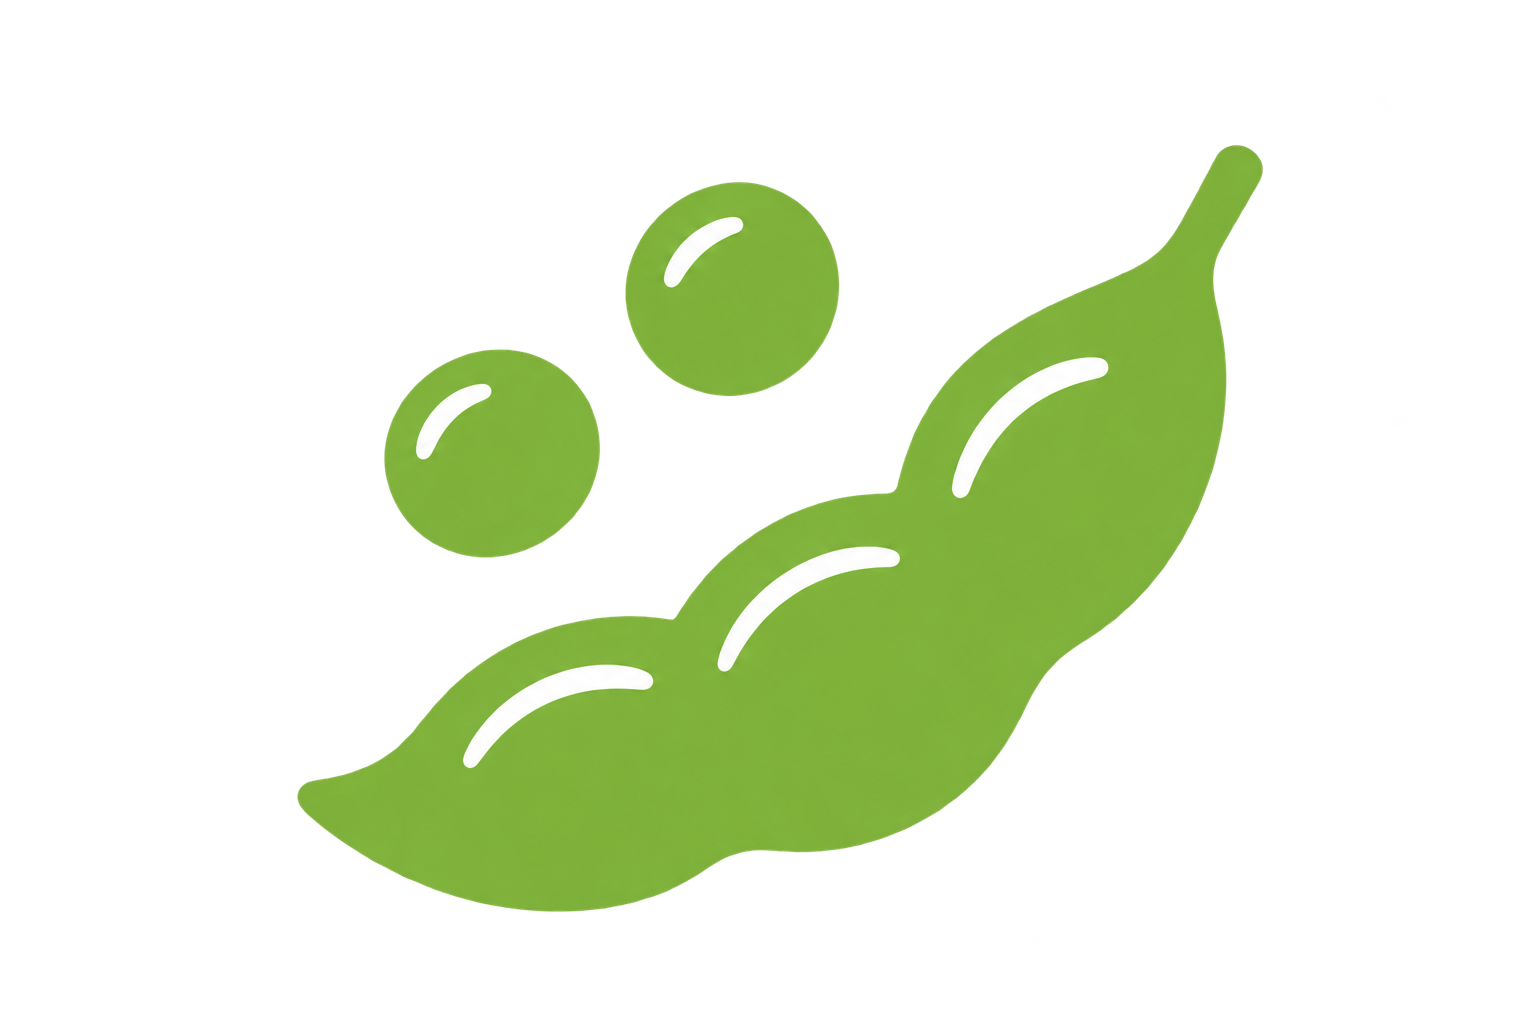
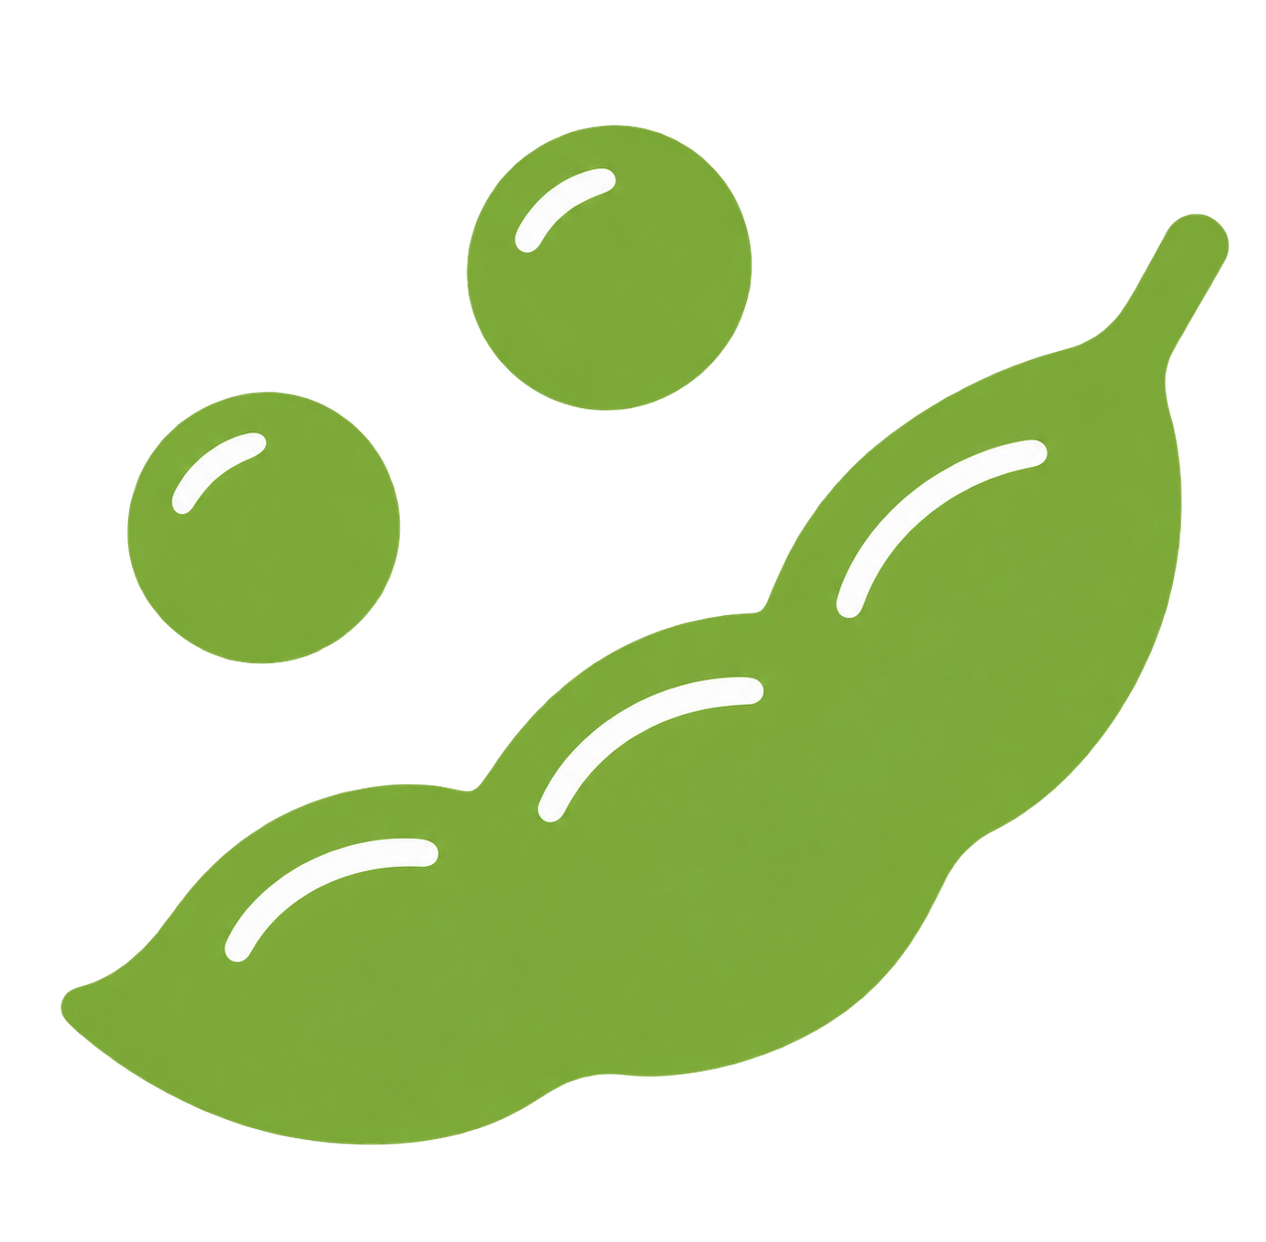
update: README.md

Changed region(s): [[0.0308, 0.125, 0.9858, 0.9375], [0.0924, 0.3125, 0.4005, 0.5625], [0.3697, 0.0938, 0.6161, 0.4062]]

diff --git a/README.md b/README.md
@@ -1,8 +1,76 @@
 # MealRoom
 
+<p align="center">
+  <img src="asset/icon-meal-room-transparent.png" alt="MealRoom アイコン" width="128">
+</p>
+
+<p align="center">
+  <strong>MealRoom</strong><br>
+  献立から買い物まで、ふたり・家族でひとつに。
+</p>
+
 家族・カップルで料理、献立、買い物リストを共有するスマートフォン向けMVPです。React製WebアプリをS3とCloudFrontで配信し、FlutterアプリはそのWebアプリをWebViewで表示します。
 
 現行の本番URLは `https://dqtgmho40xu09.cloudfront.net/index.html` です。
+
+## サービス概要
+
+MealRoomは、家族やカップルが同じRoomで毎日の食事を決め、必要な食材を買い物リストへつなげる共有アプリです。「今日何を作るか」「何を買うか」を別々のメモに分散させず、料理・献立・買い物をひとつの流れで扱います。
+
+### 解決すること
+
+- 料理の候補、レシピURL、メモを家族のRoomにまとめる
+- 朝・昼・夜の献立を週単位で見渡し、予定を共有する
+- 献立から必要な食材を重複なしで集計し、買い物リストを作る
+- 外出先ではスマートフォンから確認し、変更は同期ボタンで共有する
+
+### 体験コンセプト
+
+MealRoomの中心にあるのは「同じRoomを見て、一緒に決める」体験です。データの取得（GET）はリアルタイムに近い間隔で行い、編集中の変更（PUT）はユーザーが同期ボタンを押したタイミングで追加します。これにより、S3上のデータを読みながら入力途中の内容が勝手に消えることを避け、共有する瞬間をユーザー自身が選べます。
+
+## UIコンセプト
+
+UIは `#7CB342` を中心に、Untitled UIのような余白・タイポグラフィ・状態表示を重視した、静かで実用的なスマートフォン優先設計です。カードの輪郭線を極力使わず、背景色・余白・面のコントラストで情報のまとまりを表現します。
+
+| 要素 | デザイン方針 | 画面での役割 |
+| --- | --- | --- |
+| ブランドカラー | `#7CB342`（リーフグリーン） | 同期、追加、選択中などの主要アクション |
+| サーフェス | 白い面と淡い `#F8FBF4` の背景 | 枠線に頼らず、情報の階層をつくる |
+| 角・余白 | 大きめの角丸と一定の間隔 | 料理・献立・買い物をひとつのリズムで見せる |
+| 状態表示 | 「同期済み」「未同期の変更あり」「同期中」 | S3共有の状態を常に把握できるようにする |
+| タイポグラフィ | 大きな見出しと短いラベル | 片手操作でも重要な情報を先に読めるようにする |
+
+### 画面の構成
+
+```text
+┌────────────────────────────────────┐
+│  [MealRoom]  わが家のRoom       [同期] │
+├────────────────────────────────────┤
+│  HOME                              │
+│  今週の献立      月  火  水  木  金     │
+│  カレー          ●   ─   ●   ─   ─     │
+│                                      │
+│  RECIPES                            │
+│  料理を追加   レシピURL   メモ          │
+│                                      │
+│  SHOPPING                           │
+│  □ 玉ねぎ       献立から              │
+│  □ 牛乳         手動追加              │
+└────────────────────────────────────┘
+```
+
+- **Home**: Roomの状態と今週の献立を最初に確認するダッシュボード
+- **Recipes**: 料理名・カテゴリ・食材・メモ・レシピURLを一緒に管理。URLはアプリ内に閉じず、外部ブラウザで開く
+- **Meal plan**: 朝・昼・夜を日付ごとに編集し、週の流れを見渡す
+- **Shopping**: 献立からの自動集計と手動追加を同じリストで扱う
+
+### アイコン
+
+MealRoomのアイコンは、リーフグリーンの葉と小さな丸いモチーフで「食材」「成長」「一緒に育てる食卓」を表現しています。透明背景版をWeb、iOS、Androidで共通利用し、アプリ内ではブランドカラーと同じグリーンで統一しています。
+
+- 原画像: [`asset/icon-meal-room-transparent.png`](asset/icon-meal-room-transparent.png)
+- Web公開用: [`web/public/icon-meal-room-transparent.png`](web/public/icon-meal-room-transparent.png)
+- Flutterアプリ用: [`flutter_shell/assets/icon-meal-room-transparent.png`](flutter_shell/assets/icon-meal-room-transparent.png)
 
 ## 現在の構成
 
